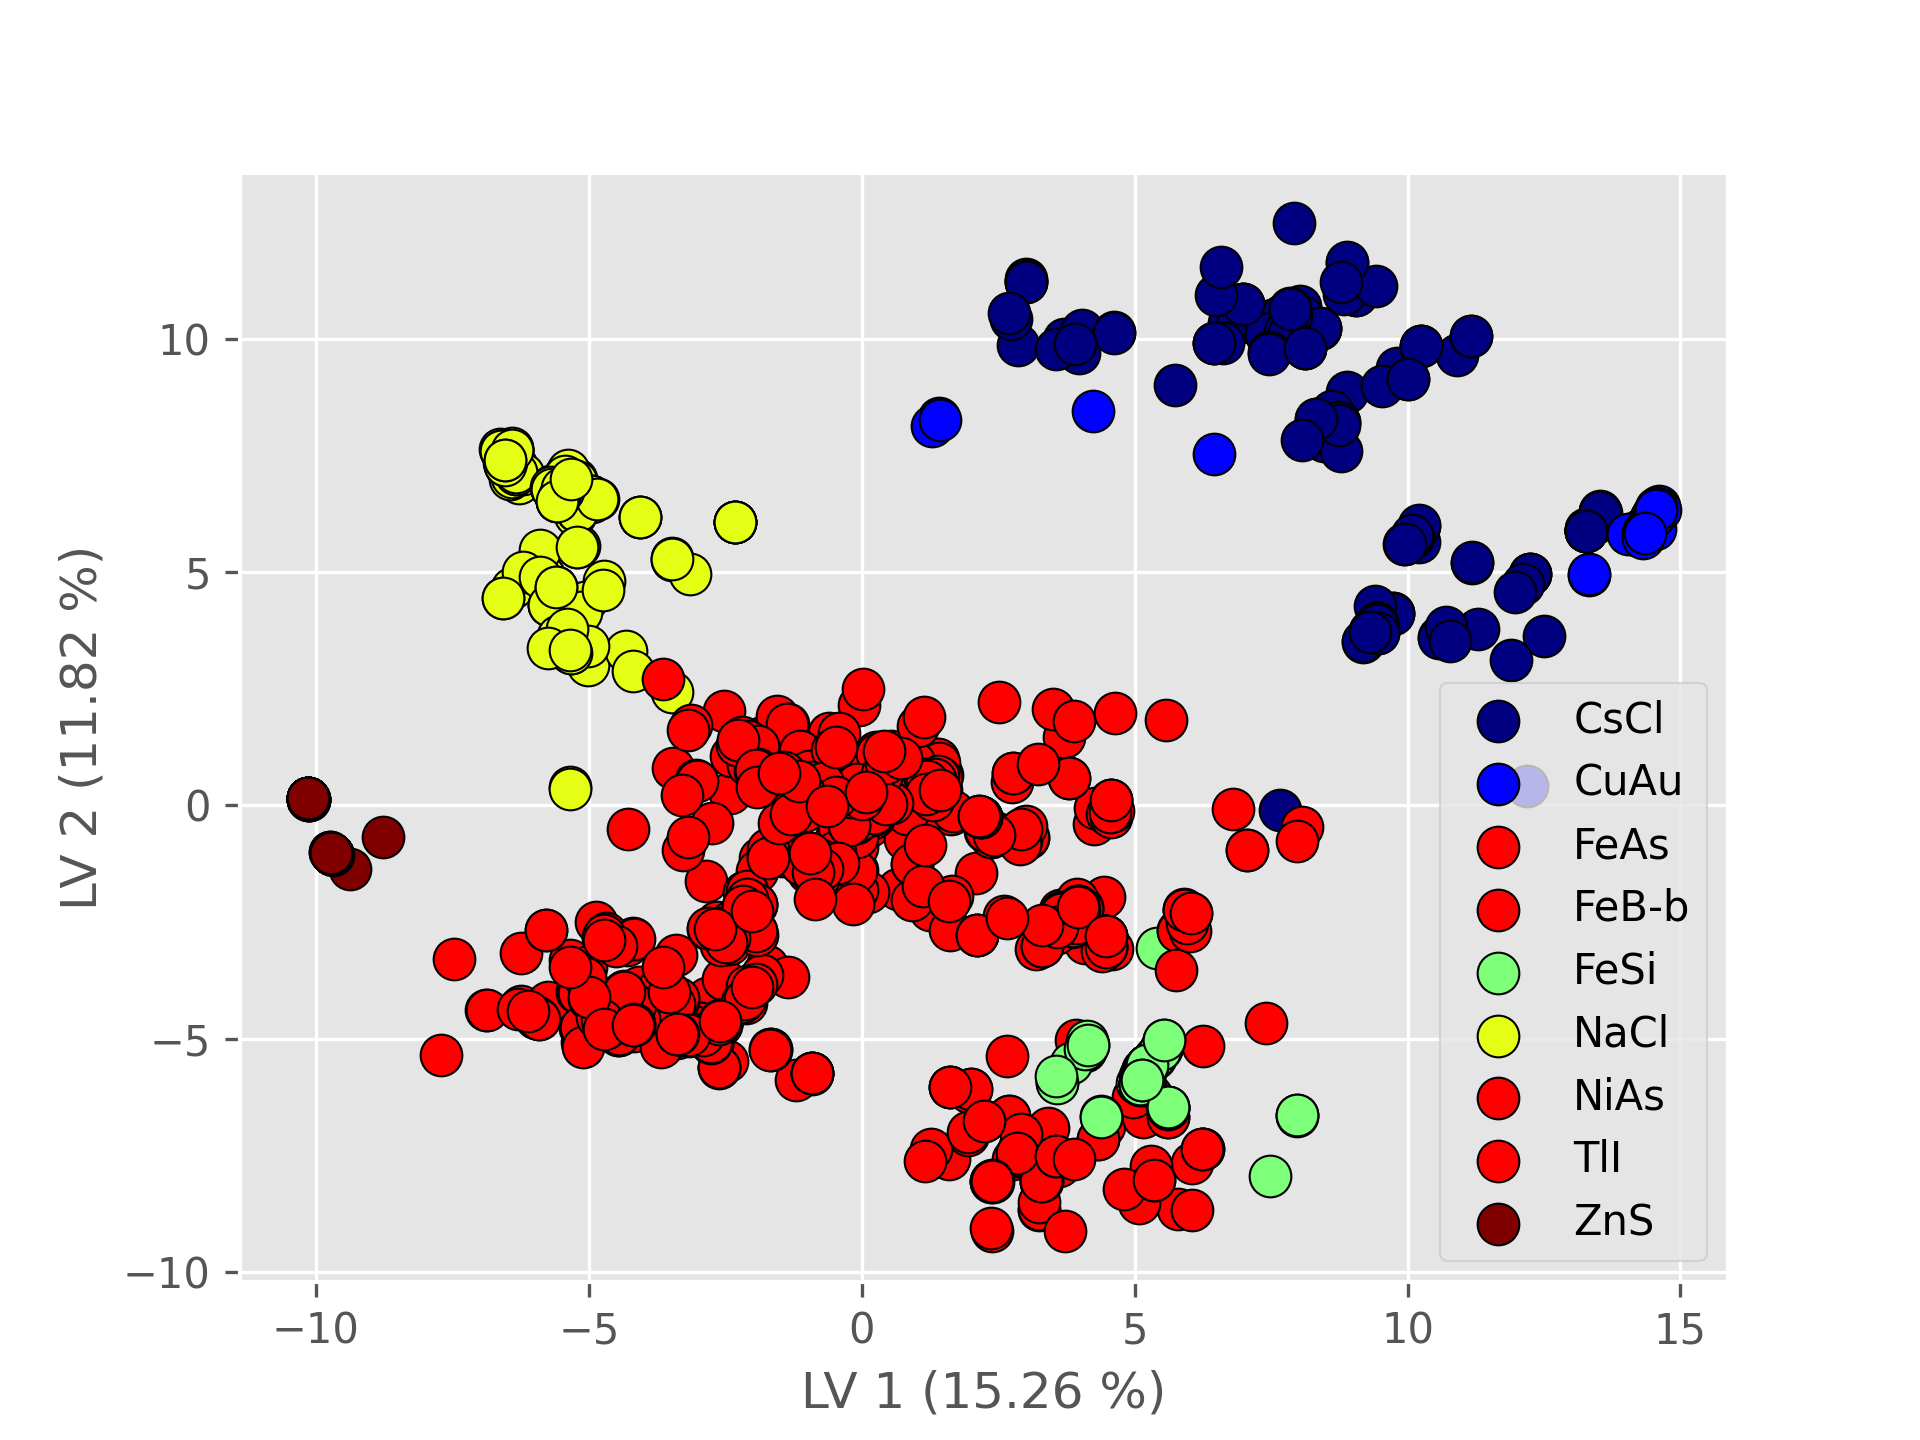
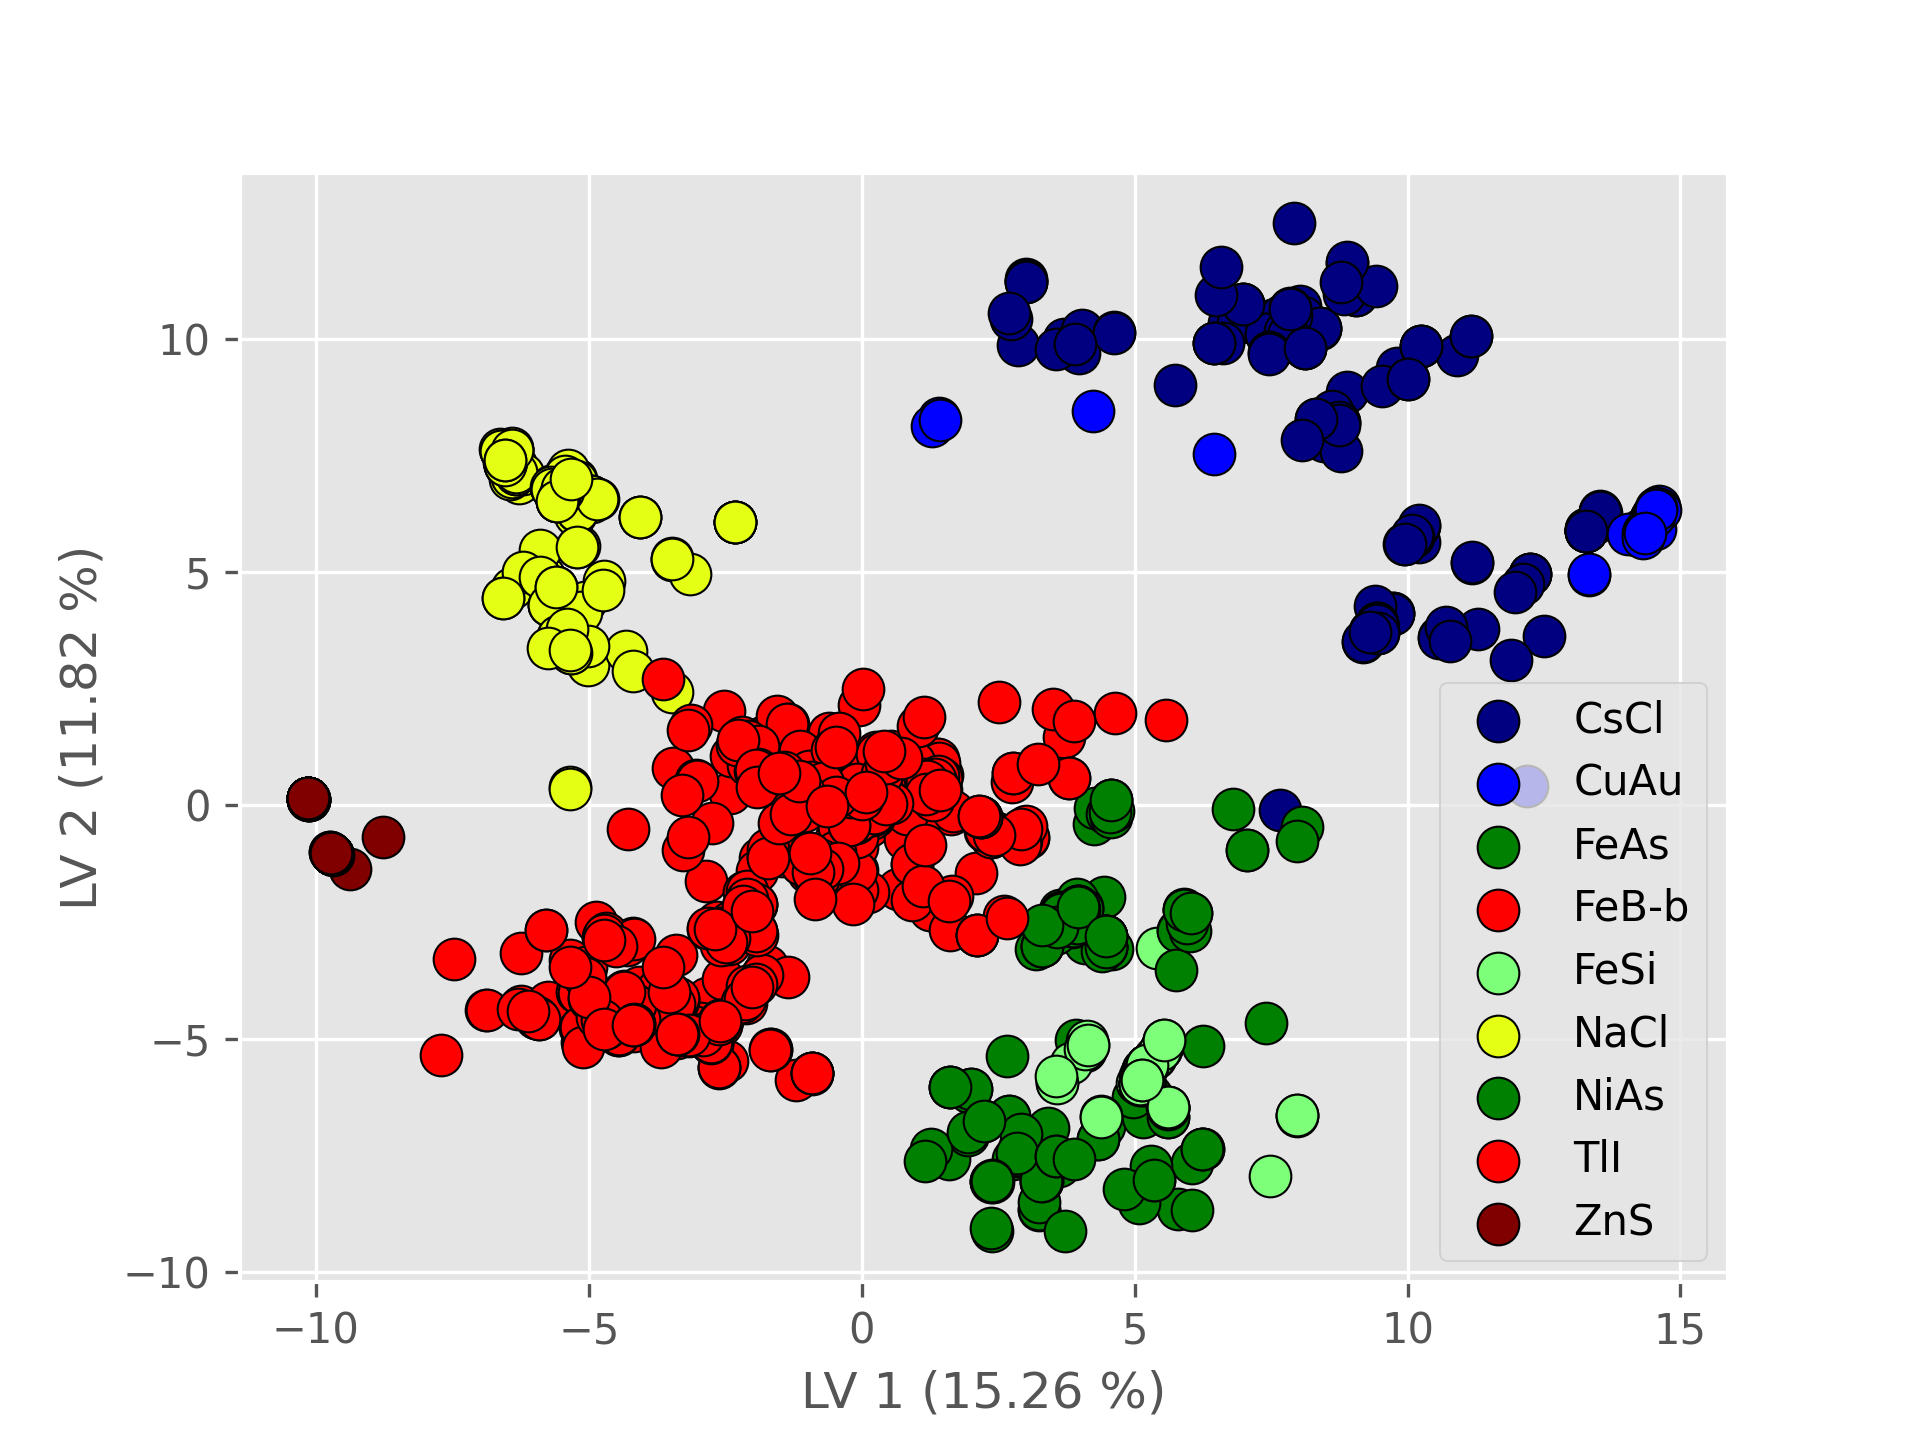
Update Figure 8.1

diff --git a/figure_8_case_study.py b/figure_8_case_study.py
@@ -35,10 +35,11 @@ def plot_two_component(X, y, feature_file_path, figure_number):
 
     # Define the same color scheme for these specific labels
     if figure_number == 1:
-        same_color_labels = ["TlI", "FeB-b", "FeAs", "NiAs", "CoSn"]
+        same_color_label_set_1 = ["TlI", "FeB-b"]
+        same_color_label_set_2 = ["FeAs", "NiAs"]
 
     if figure_number == 2:
-        same_color_labels = [
+        same_color_label_set_1 = [
             "CsCl",
             "CuAu",
             "FeAs",
@@ -77,14 +78,16 @@ def plot_two_component(X, y, feature_file_path, figure_number):
             
             # For Figure 8.1
             if figure_number == 1:
-                if actual_label in same_color_labels:
+                if actual_label in same_color_label_set_1:
                     color = "red"
+                elif actual_label in same_color_label_set_2:
+                    color = "green"
                 else:
                     color = colors[i]
                     
             # For Figure 8.2 keep either either red for the same and green for the others
             if figure_number == 2:
-                if actual_label in same_color_labels:
+                if actual_label in same_color_label_set_1:
                     color = "red"
                 else:
                     color = colors[4]
